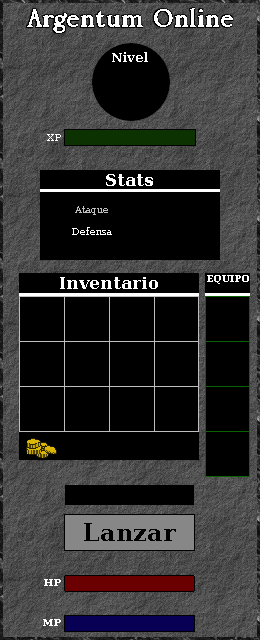
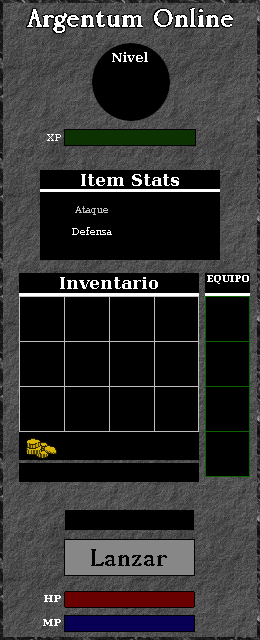
Agregado que se muestre nombre del item seleccionado en la interfaz

diff --git a/client/views/game_view/hud.cpp b/client/views/game_view/hud.cpp
@@ -57,7 +57,9 @@ Hud::Hud(ResponsiveScaler& scaler, SDLWindow& window, ChatBuffer& chat_buffer,
       attack_points_text("152", ResourceManager::get_instance().get_font(1),
                          INFO_TEXT_COLOR, window.get_renderer()),
       defense_points_text("245", ResourceManager::get_instance().get_font(1),
-                          INFO_TEXT_COLOR, window.get_renderer()) {}
+                          INFO_TEXT_COLOR, window.get_renderer()),
+      selected_item_text("Nothing", ResourceManager::get_instance().get_font(1),
+                         INFO_TEXT_COLOR, window.get_renderer()) {}
 
 Hud::~Hud() {}
 
@@ -103,6 +105,13 @@ void Hud::_update_inventory() {
                 break;
         }
         inventory.set_item(i, icon, quantity);
+    }
+    if (inventory_data["items"][inventory.get_last_clicked_slot()]["type"] !=
+        0) {
+        selected_item_text.update_text(
+            inventory_data["items"][inventory.get_last_clicked_slot()]["name"]);
+    } else {
+        selected_item_text.update_text("");
     }
     gold_text.update_text(std::to_string(int(inventory_data["curr_gold"])));
 }
@@ -165,12 +174,14 @@ void Hud::_update_player_info() {
     spell_name_text.update_text(player_stats.get_ability_name());
     int min_attack = player_stats.get_stat_current_value("att");
     int max_attack = player_stats.get_stat_max_value("att");
-    std::string attack = std::to_string(min_attack) + " - " + std::to_string(max_attack);
+    std::string attack =
+        std::to_string(min_attack) + " - " + std::to_string(max_attack);
     attack_points_text.update_text(attack);
 
     int min_defense = player_stats.get_stat_current_value("def");
     int max_defense = player_stats.get_stat_max_value("def");
-    std::string defense = std::to_string(min_defense) + " - " + std::to_string(max_defense);
+    std::string defense =
+        std::to_string(min_defense) + " - " + std::to_string(max_defense);
     defense_points_text.update_text(defense);
 }
 
@@ -205,6 +216,11 @@ void Hud::_render_help_panel() {
     }
 }
 
+void Hud::_render_selected_item_text() {
+    selected_item_text.render(
+        _get_scaled_dest(selected_item_text, ITEM_NAME_AREA));
+}
+
 void Hud::update() {
     _update_stats();
     _update_equipment();
@@ -226,6 +242,7 @@ void Hud::render() {
     _render_gold_amount();
     _render_level();
     _render_player_info();
+    _render_selected_item_text();
     window.reset_viewport();
     _render_help_panel();
 }

diff --git a/client/client_config.h b/client/client_config.h
@@ -69,7 +69,7 @@
     { 0, 0, 260, 640 }
 
 #define HP_BAR_AREA \
-    { 65, 576, 129, 15 }
+    { 65, 592, 129, 15 }
 #define MP_BAR_AREA \
     { 65, 616, 129, 15 }
 #define XP_BAR_AREA \
@@ -89,7 +89,7 @@
 #define INVENTORY_QTIES_FONT_ID 1
 
 #define CAST_BUTTON_AREA \
-    { 64, 514, 131, 37 }
+    { 64, 540, 131, 37 }
 
 #define GOLD_TEXT_AREA \
     { 85, 435, 114, 25 }
@@ -103,11 +103,13 @@
     { 39, 135, 0, 255 }
 
 #define SPELL_TEXT_AREA \
-    { 65, 485, 129, 20 }
+    { 65, 510, 129, 20 }
 #define ATT_PTS_TEXT_AREA \
     { 154, 200, 40, 15 }
 #define DEF_PTS_TEXT_AREA \
     { 154, 221, 40, 15 }
+
+#define ITEM_NAME_AREA {19,463,180,19}
 
 #define INFO_TEXT_COLOR \
     { 255, 255, 255, 255 }

diff --git a/client/views/game_view/hud.h b/client/views/game_view/hud.h
@@ -46,6 +46,7 @@ class Hud {
     SDLText spell_name_text;
     SDLText attack_points_text;
     SDLText defense_points_text;
+    SDLText selected_item_text;
     friend class UiEventHandler;
 
     SDL_Rect _get_scaled_dest(SDLText &text,SDL_Rect dest);
@@ -54,7 +55,8 @@ class Hud {
     void _render_level();
     void _render_player_info();
     void _render_help_panel();
-
+    void _render_selected_item_text();
+    
     void _update_stats();
     void _update_inventory();
     void _update_equipment();
